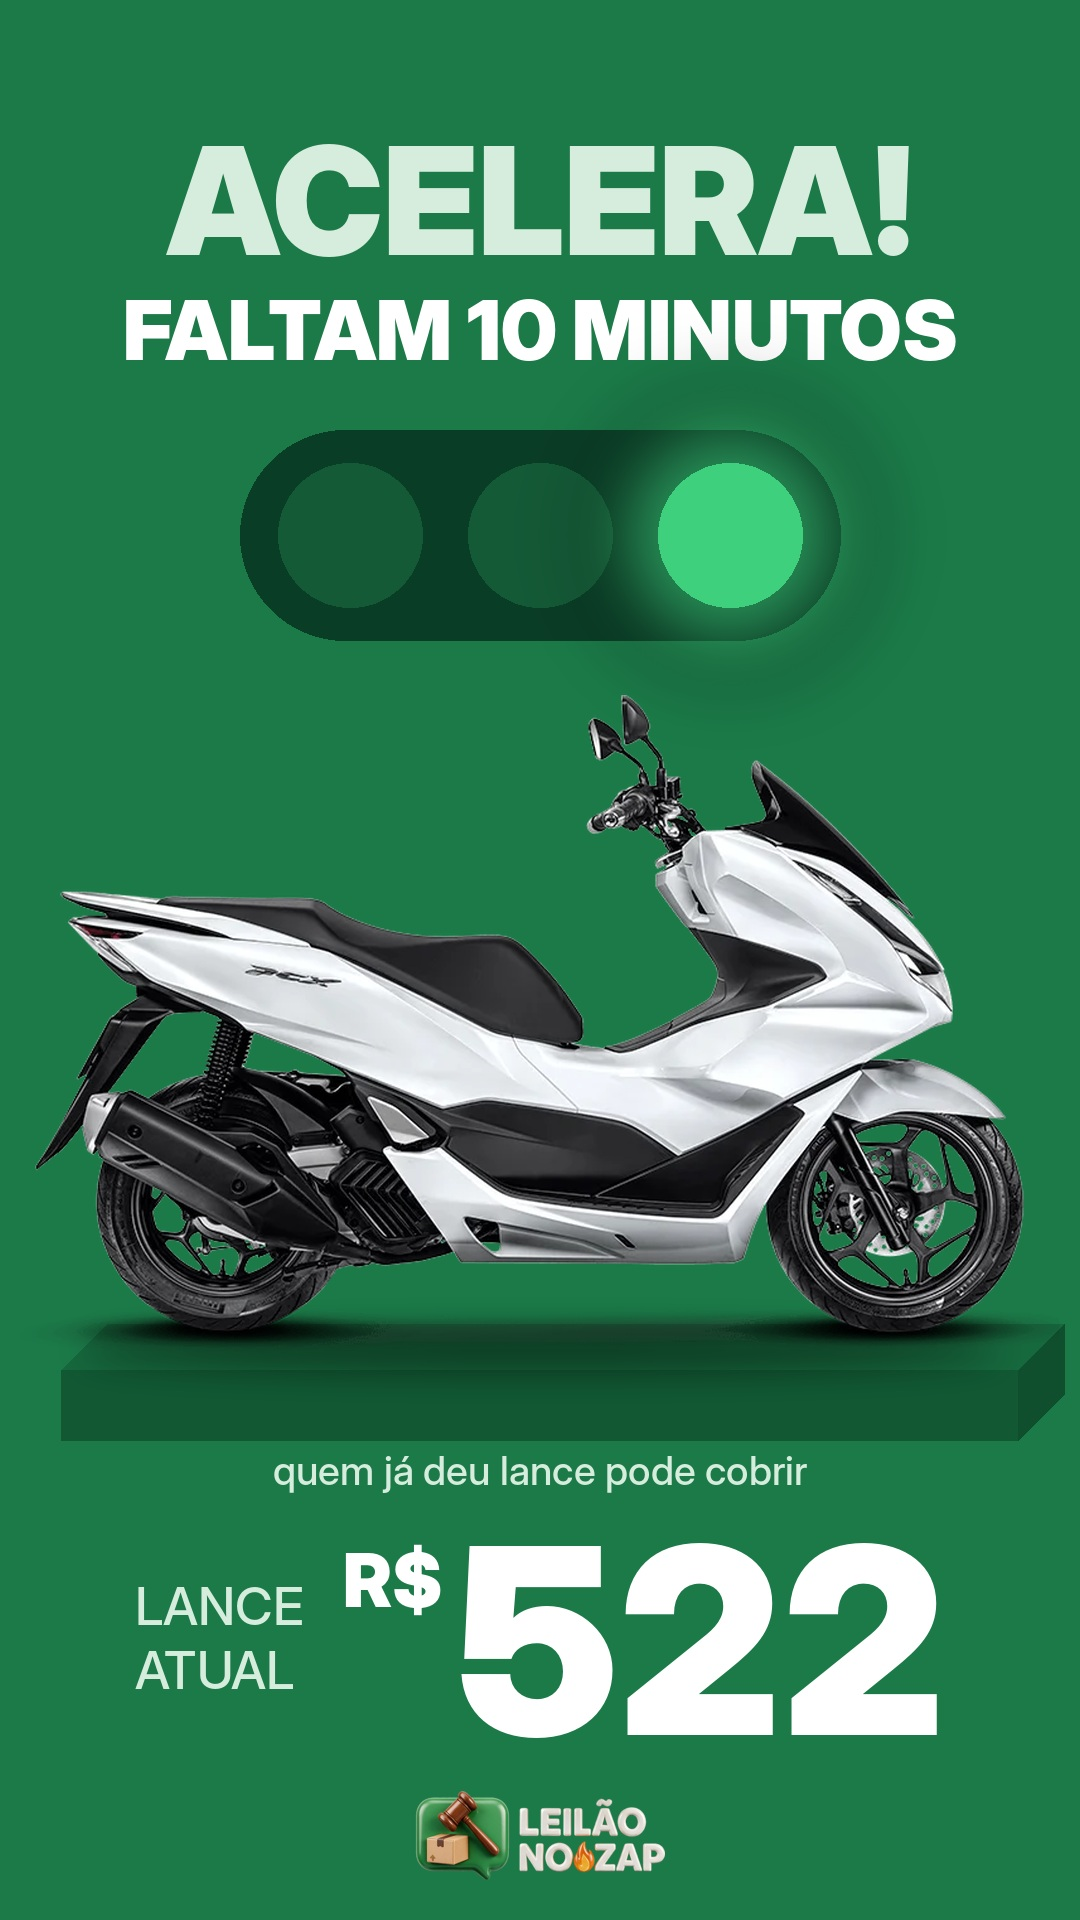
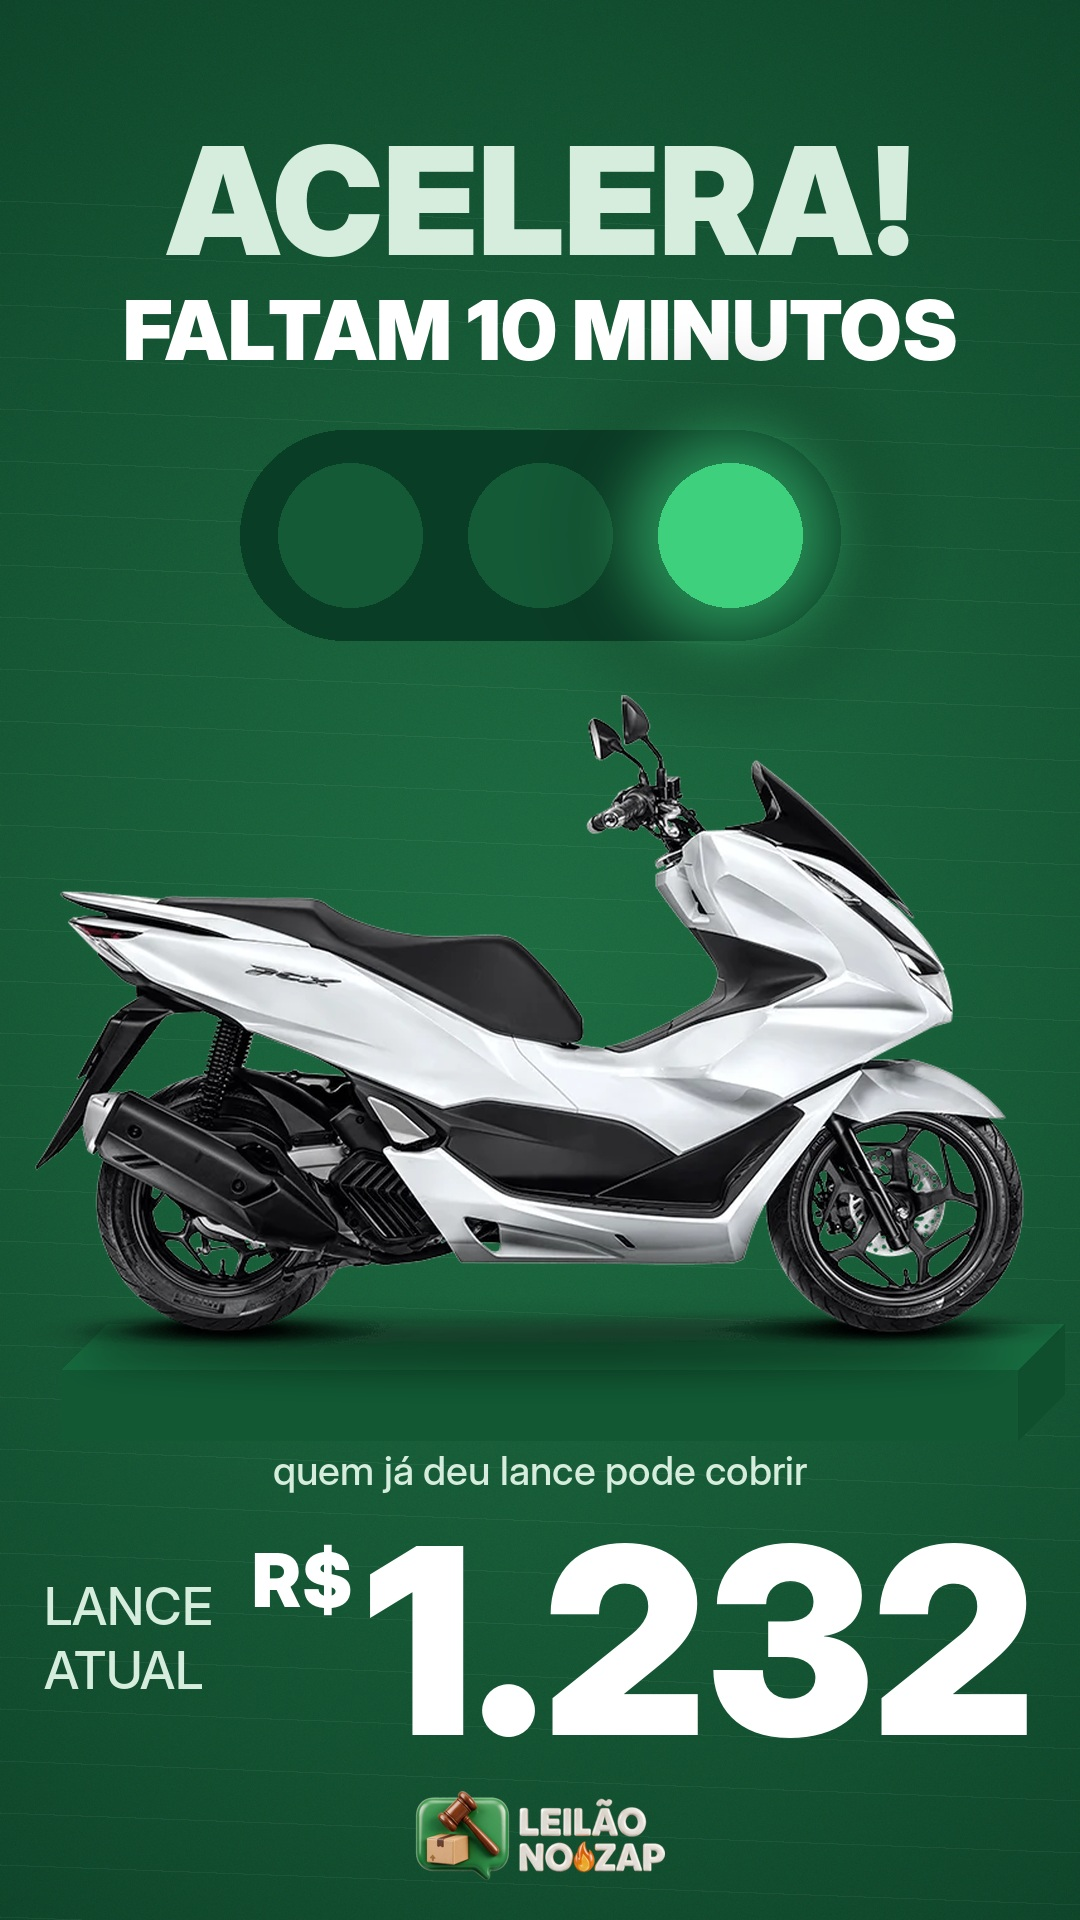
PCX: 10 minutos e É agora no verde da placa, lance R$ 1.232
Claude-Session: https://claude.ai/code/session_01JihU9VfVTYTrMqQpApFEjH

diff --git a/marketing/semana-2026-11-16/sabado-21-11-pcx/fonte/contagem_marca.py b/marketing/semana-2026-11-16/sabado-21-11-pcx/fonte/contagem_marca.py
@@ -166,7 +166,7 @@ if quer('19h'):
 
 # 6 · 19h50 · ACELERA! 10 MINUTOS (inverte: verde-escuro + ouro = alarme da marca)
 if quer('19h50'):
-    b = base(VM); agua(b, ['10'], VE2, 1000, 760); d = ImageDraw.Draw(b)
+    b = verde_placa(); d = ImageDraw.Draw(b)   # cor da arte da placa (Natália, 21/11)
     d.text((W / 2, 200), 'ACELERA!', font=F('Black', 150), fill=OURO, anchor='mm'); d.text((W / 2, 330), 'FALTAM 10 MINUTOS', font=F('Black', 82), fill=BR, anchor='mm')
     d = semaforo(b, 240, 430, 2, corpo=VE, apagada=(20, 90, 55))
     moto(b, 1040, W / 2, 1370, ((22, 104, 61), (17, 88, 51)))
@@ -175,7 +175,7 @@ if quer('19h50'):
 
 # 7 · 20h · É AGORA! (inverte + faixa quadriculada de largada em ouro e verde)
 if quer('20h'):
-    b = base(VM); d = ImageDraw.Draw(b); q = 60
+    b = verde_placa(); d = ImageDraw.Draw(b); q = 60
     for yy in range(2):   # bandeira de largada atravessando, atrás da moto
         for xx in range(0, W, q):
             d.rectangle((xx, 1140 + yy * q, xx + q, 1140 + yy * q + q), fill=OURO if (xx // q + yy) % 2 == 0 else (22, 104, 61))
